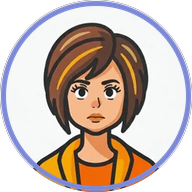
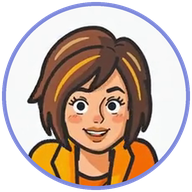
Karen's welcome email: a smiling picture and her number under the greeting
The picture is the waving clip's smiling frame (5.0s), cut to the same
circle and ring, in place of the first frame, whose mouth is flat. The
line under "Hi <name>, I'm Karen!" reads "Karen · (813) 555-0199 ·
Synergy Salon's Assistant", the number from Settings, Karen AI as a tel:
link, and just her name and role until a number is connected.

Claude-Session: https://claude.ai/code/session_01PphCaWTyvkM35KUtYBzZGP

diff --git a/api/_lib/email.js b/api/_lib/email.js
@@ -224,7 +224,10 @@ function layout({ heading, intro, rows, action, secondary, where, change, steps,
          <td style="padding:0 14px 0 0;vertical-align:middle;"><img src="${avatar.src}" alt="${escapeHtml(avatar.alt || '')}"
             width="64" height="64" style="width:64px;height:64px;border:0;display:block;border-radius:50%;"></td>
          <td style="vertical-align:middle;"><h1 style="margin:0;font-size:22px;line-height:1.3;color:${INK};">${escapeHtml(heading)}</h1>
-           ${avatar.caption ? `<p style="margin:2px 0 0;color:${MUTED};font-size:13px;">${escapeHtml(avatar.caption)}</p>` : ''}</td>
+           ${avatar.caption ? `<p style="margin:3px 0 0;color:${MUTED};font-size:13px;line-height:1.4;">${
+    [].concat(avatar.caption).map((part) => (part === avatar.phone && avatar.phoneHref
+      ? `<a href="${avatar.phoneHref}" style="color:${MUTED};text-decoration:none;white-space:nowrap;">${escapeHtml(part)}</a>`
+      : escapeHtml(part))).join(' &middot; ')}</p>` : ''}</td>
        </tr></table>`
     : `<h1 style="margin:0 0 8px;font-size:22px;line-height:1.3;color:${INK};">${escapeHtml(heading)}</h1>`}
       <p style="margin:0 0 24px;color:#4A4A57;font-size:15px;line-height:1.55;white-space:pre-line;">${escapeHtml(intro)}</p>
@@ -483,12 +486,26 @@ function appUrlFor(link, appUrl) {
  * has no web address to serve them from (a test, a preview).
  */
 const KAREN_EMAIL_PIC = '/assets/karen/karen-email.png';
+
+/** A stored number as the salon writes it, (813) 555-0199; anything else as it is. */
+function usPhoneText(raw) {
+  const d = String(raw || '').replace(/\D/g, '').replace(/^1(?=\d{10}$)/, '');
+  return d.length === 10 ? `(${d.slice(0, 3)}) ${d.slice(3, 6)}-${d.slice(6)}` : String(raw || '').trim();
+}
 const WORDMARK = '/assets/7c1e4b2a-9d3f-4e61-b8a5-2f0c6d9e1a73.png';
 function karenImages(shop) {
   if (!/^https?:\/\//i.test(shop.site || '')) return {};
   return {
     logo: `${shop.site}${WORDMARK}`,
-    avatar: { src: `${shop.site}${KAREN_EMAIL_PIC}`, alt: 'Karen', caption: `Karen · ${shop.name}'s assistant` },
+    // "Karen · (813) 555-0199 · Synergy Salon's Assistant" (asked for
+    // 2026-11-04), the number tappable; just her name and role until a
+    // number is connected.
+    avatar: {
+      src: `${shop.site}${KAREN_EMAIL_PIC}`, alt: 'Karen',
+      caption: ['Karen', usPhoneText(shop.karenPhone), `${shop.name}'s Assistant`].filter(Boolean),
+      phone: usPhoneText(shop.karenPhone),
+      phoneHref: shop.karenPhone ? `tel:${String(shop.karenPhone).replace(/[^\d+]/g, '')}` : '',
+    },
   };
 }
 

diff --git a/api/_lib/config.js b/api/_lib/config.js
@@ -130,6 +130,9 @@ export function shopFrom(tenant = {}) {
     // review with nowhere to leave one wastes the one ask you get.
     reviewUrl: /^https?:\/\//i.test(String(tenant.review_url || '')) ? tenant.review_url : '',
     site,
+    // Karen's own number (Settings, Karen AI), for her line in the team's
+    // emails; empty until one is connected.
+    karenPhone: tenant.karen_phone || '',
     timezone: tenant.timezone || DEFAULT_TZ,
   };
 }

diff --git a/CLAUDE.md b/CLAUDE.md
@@ -1651,6 +1651,14 @@ made that way are real: name them ZZ and remove them.
     hides the four stylists without a sign-in (Dina, Micah, Tami, Kim) from
     the book until they have a login with a calendar.
   - **Invited** is a yellow chip (`.chip.invited`), Setting up periwinkle.
+  - **Karen in the team's emails smiles** (asked for 2026-11-04, later): the
+    picture is the frame at 5.0s of `karen-wave.mp4` (smiling at the reader,
+    hand open), cut to the same 192px circle and periwinkle ring, in place of
+    the clip's first frame, whose mouth is flat. The line under the greeting
+    reads "Karen · (813) 555-0199 · Synergy Salon's Assistant", the number
+    from `tenants.karen_phone` (`shopFrom().karenPhone`, written as the salon
+    writes numbers by `usPhoneText`, a `tel:` link); without a number it is
+    "Karen · Synergy Salon's Assistant".
   - **Karen's emails carry Karen and the wordmark**: `karenImages` in
     email.js, from the salon's own site (`/assets/karen/karen-email.png`, a
     192px PNG already cut to a circle with her ring, because Outlook ignores
